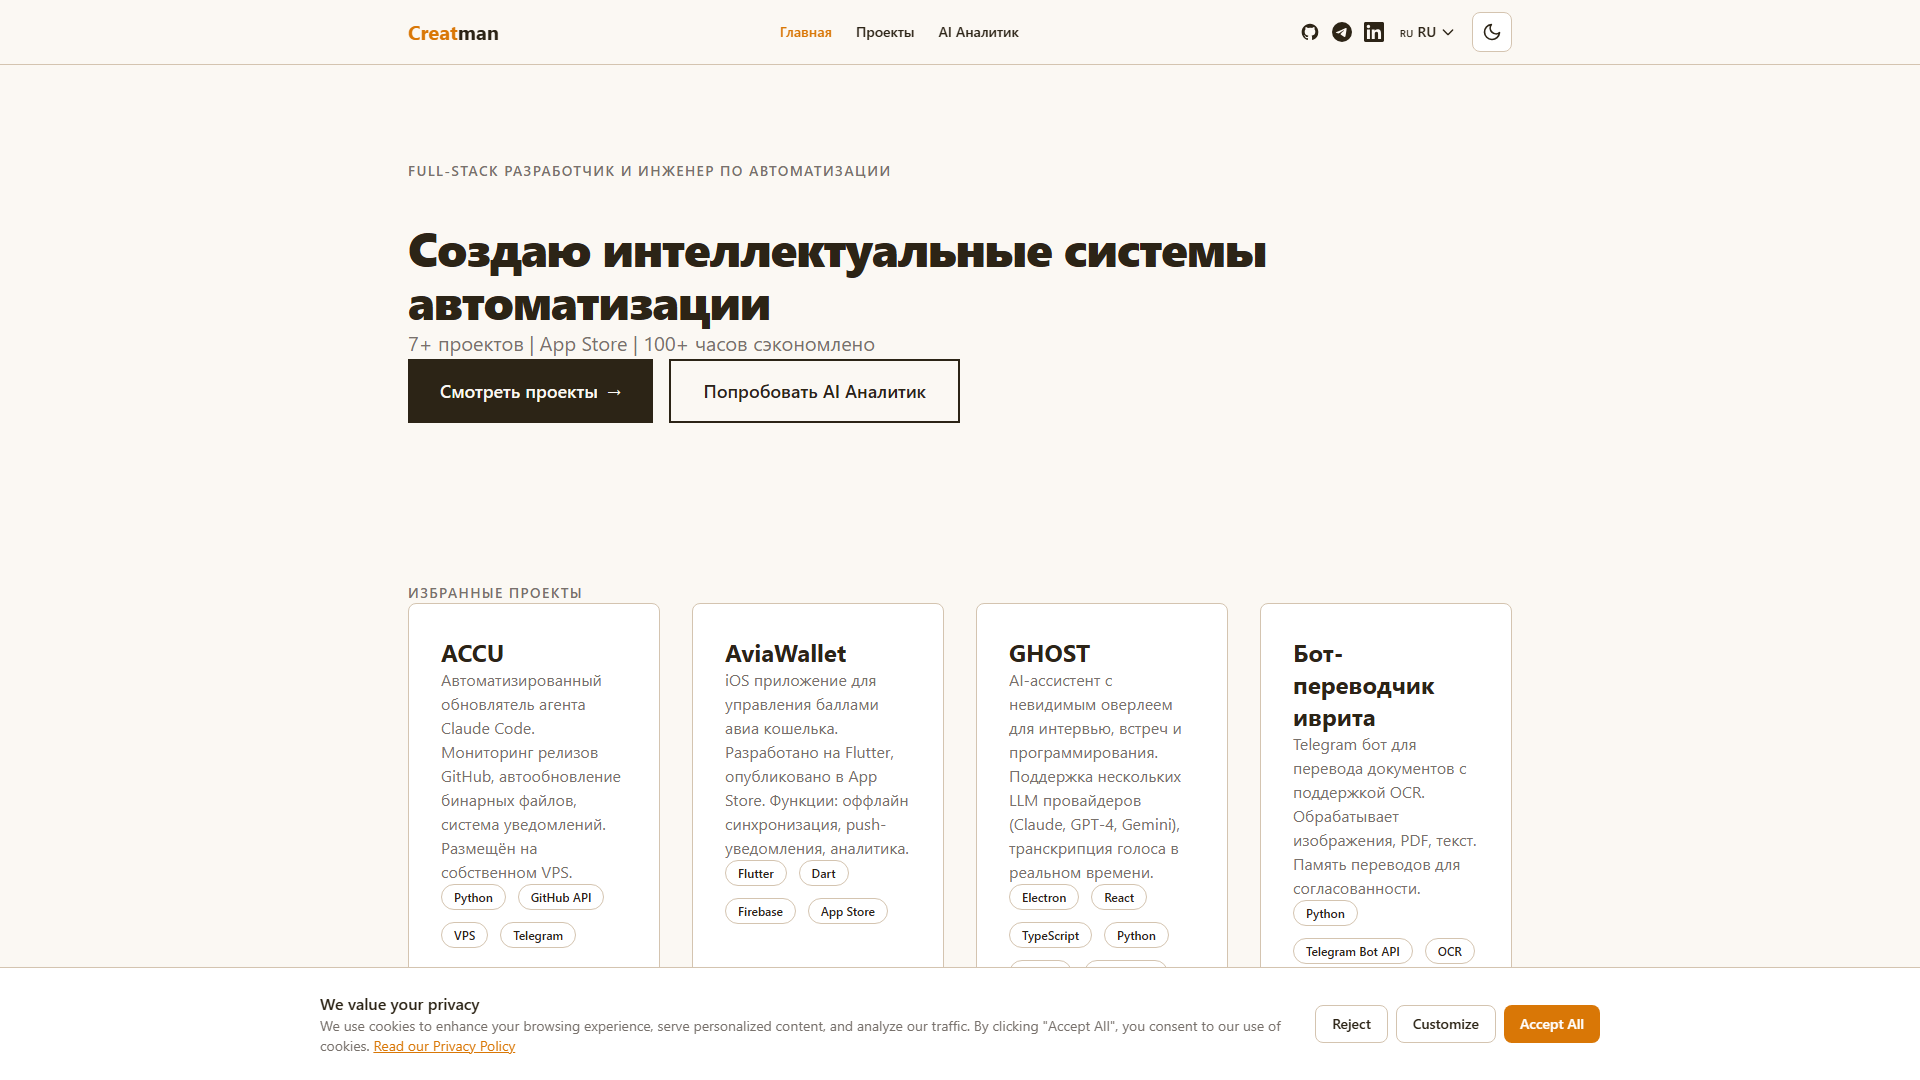
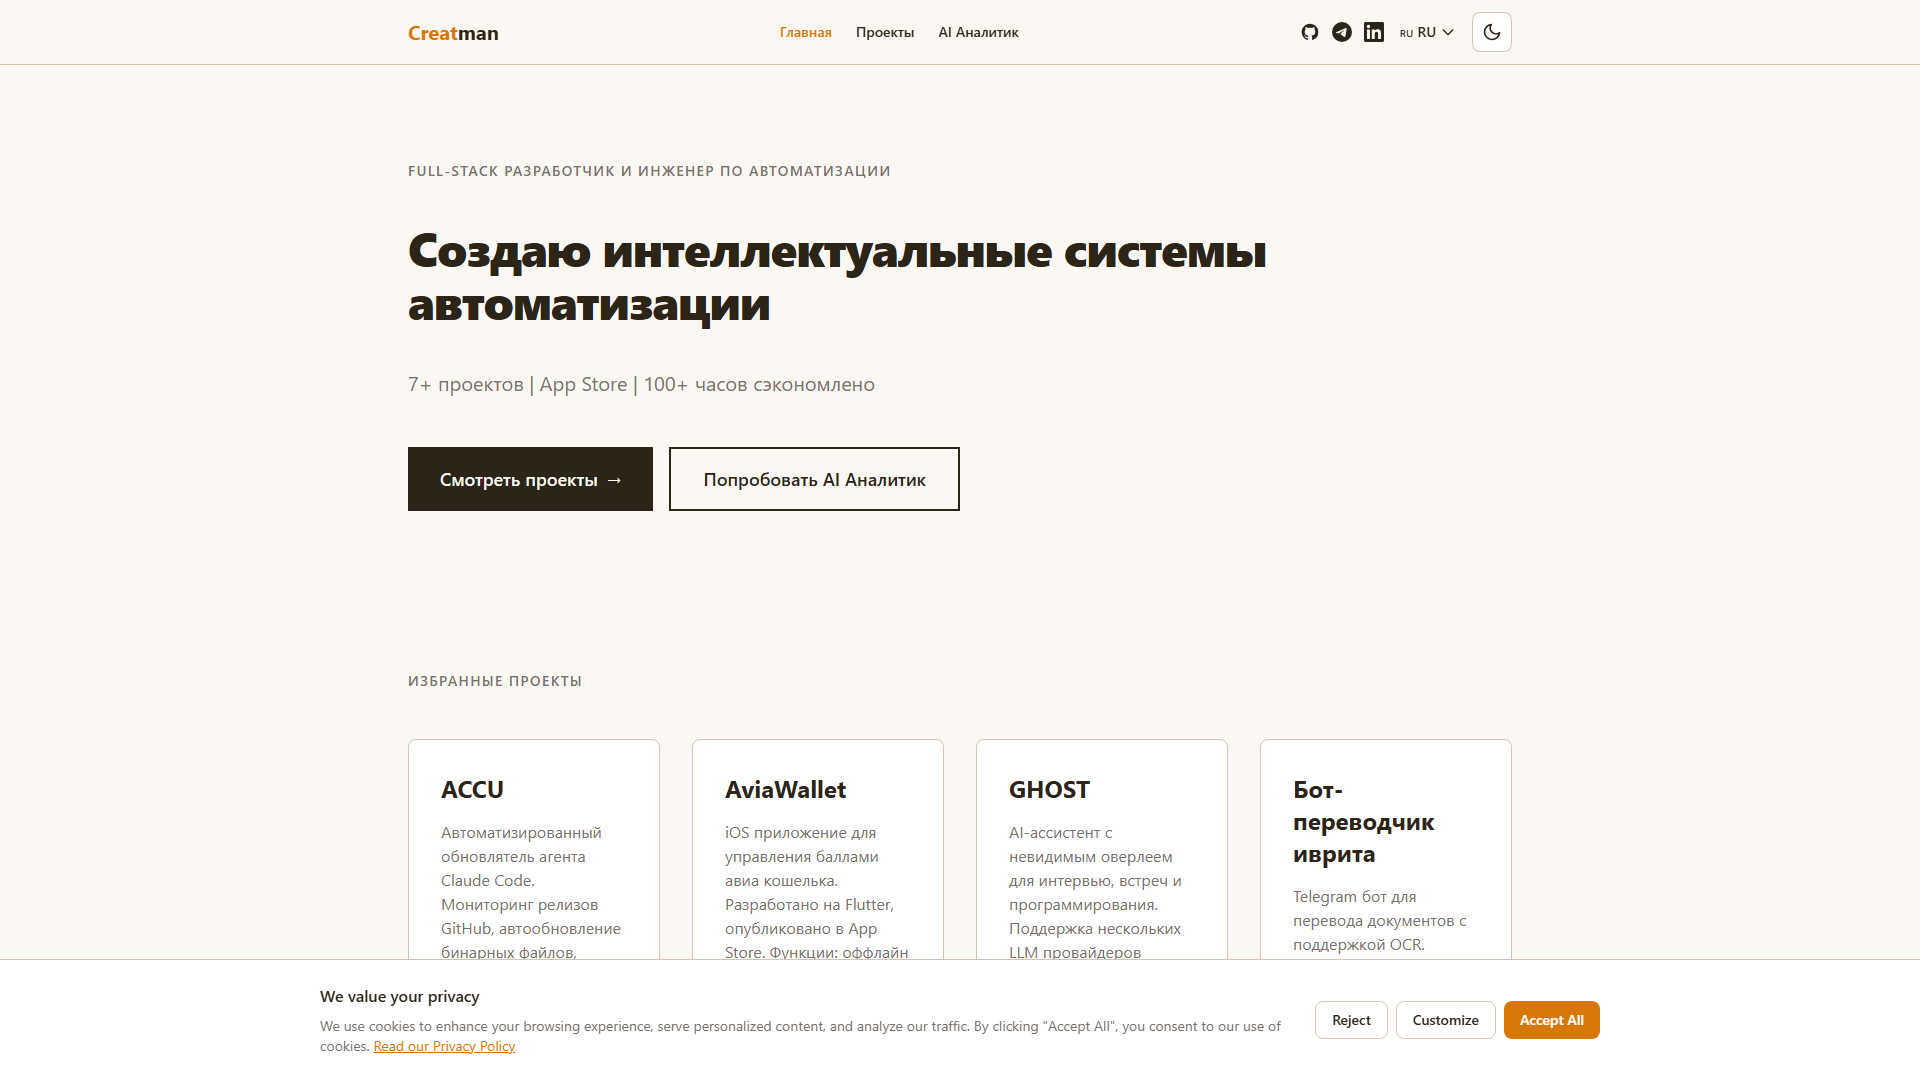
fix: reduce excessive vertical spacing and enable Gemini API
SPACING FIXES:
- Hero section: pb-24→pb-16, mb-32→mb-20 (уменьшены избыточные отступы)
- Featured Projects: mb-24→mb-16 (умеренное пространство между секциями)
- Projects page: py-20→py-16, mb-20→mb-12 (сбалансированные отступы)

GEMINI API FIX:
- Added env_file: - .env to docker-compose.yml
- Without this, GEMINI_API_KEY was not loaded into container
- Verified: printenv shows GEMINI_API_KEY correctly loaded

MEASUREMENTS:
Before: Hero→Featured=160px, Featured→Tech=128px (TOO LARGE)
After: Hero→Featured=80px, Featured→Tech=64px (BALANCED)

diff --git a/src/components/Hero.tsx b/src/components/Hero.tsx
@@ -36,9 +36,9 @@ export default function Hero() {
   ];
 
   return (
-    <section className="mx-auto max-w-6xl px-6 pt-16 pb-24 md:pt-24 md:pb-32">
+    <section className="mx-auto max-w-6xl px-6 pt-16 pb-16 md:pt-20 md:pb-20">
       {/* Minimalist Hero - Left Aligned */}
-      <div className="mb-32 md:mb-40">
+      <div className="mb-20 md:mb-24">
         <div className="mb-10 text-sm font-medium uppercase tracking-widest text-muted">
           {t("hero.label")}
         </div>
@@ -68,7 +68,7 @@ export default function Hero() {
       </div>
 
       {/* Featured Projects Grid */}
-      <div className="mb-24 md:mb-32">
+      <div className="mb-16 md:mb-20">
         <h2 className="mb-8 text-sm font-medium uppercase tracking-widest text-muted md:mb-12">
           {t("hero.featuredProjects")}
         </h2>

diff --git a/src/app/projects/page.tsx b/src/app/projects/page.tsx
@@ -71,9 +71,9 @@ export default function ProjectsPage() {
   const { t } = useLanguage();
 
   return (
-    <main className="mx-auto max-w-7xl px-6 py-20">
+    <main className="mx-auto max-w-7xl px-6 py-16">
       {/* Header */}
-      <div className="mb-20 text-center">
+      <div className="mb-12 text-center">
         <h1 className="mb-4 text-4xl font-bold md:text-5xl">{t("projects.page.title")}</h1>
         <p className="text-lg text-muted">
           {t("projects.page.subtitle")}
